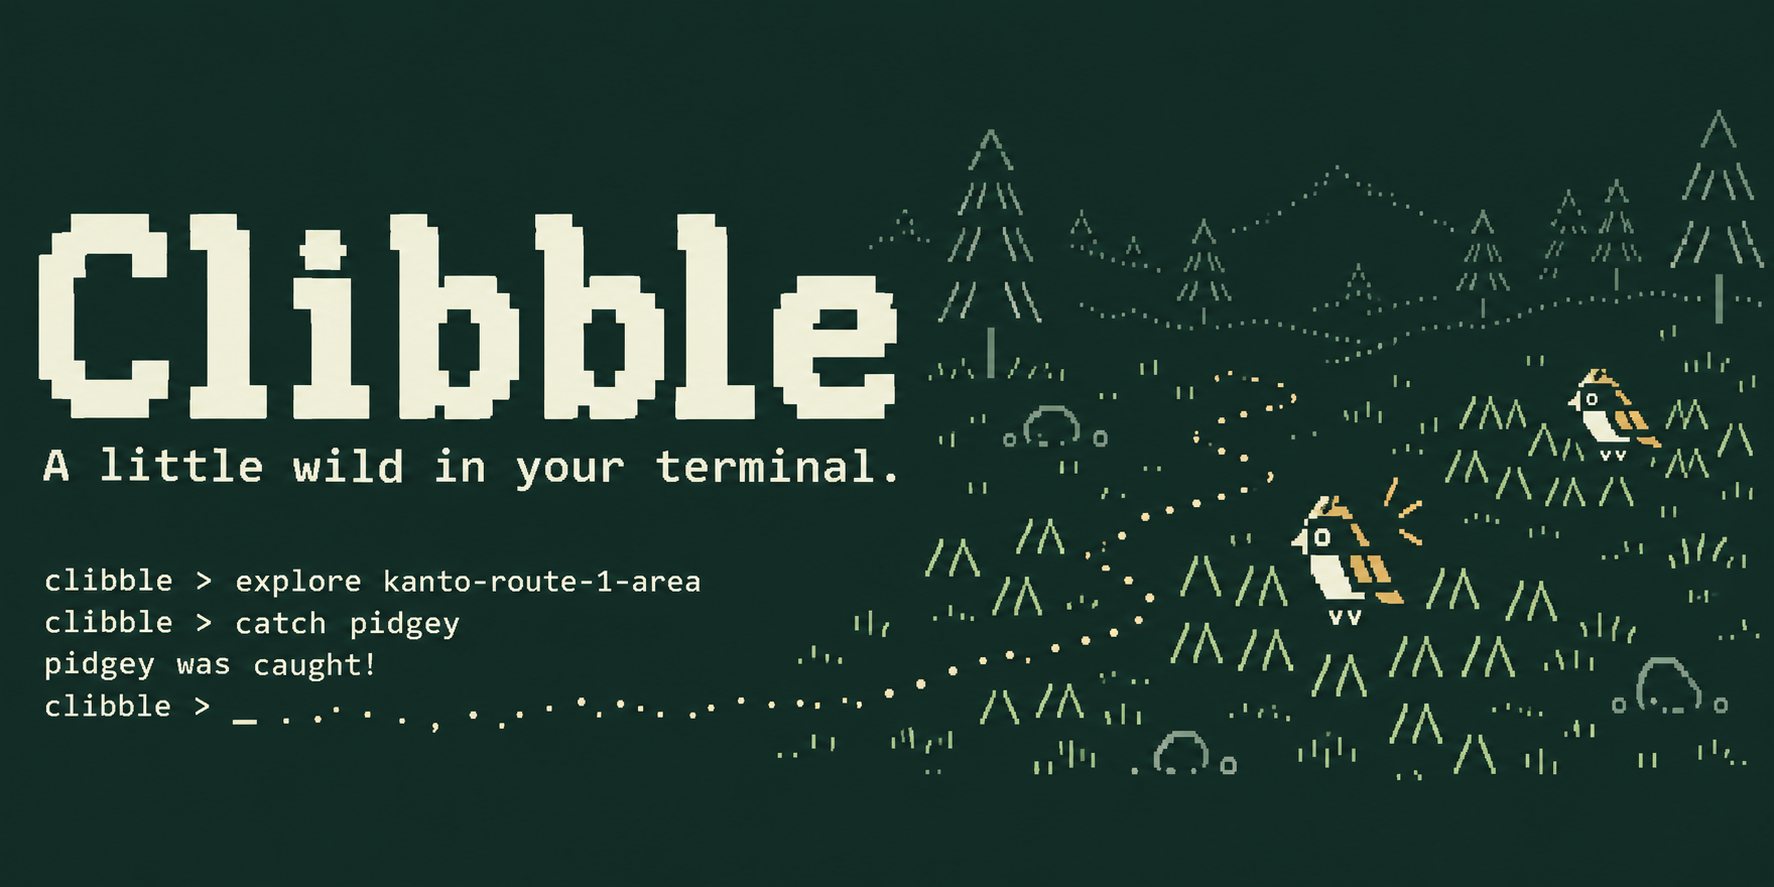
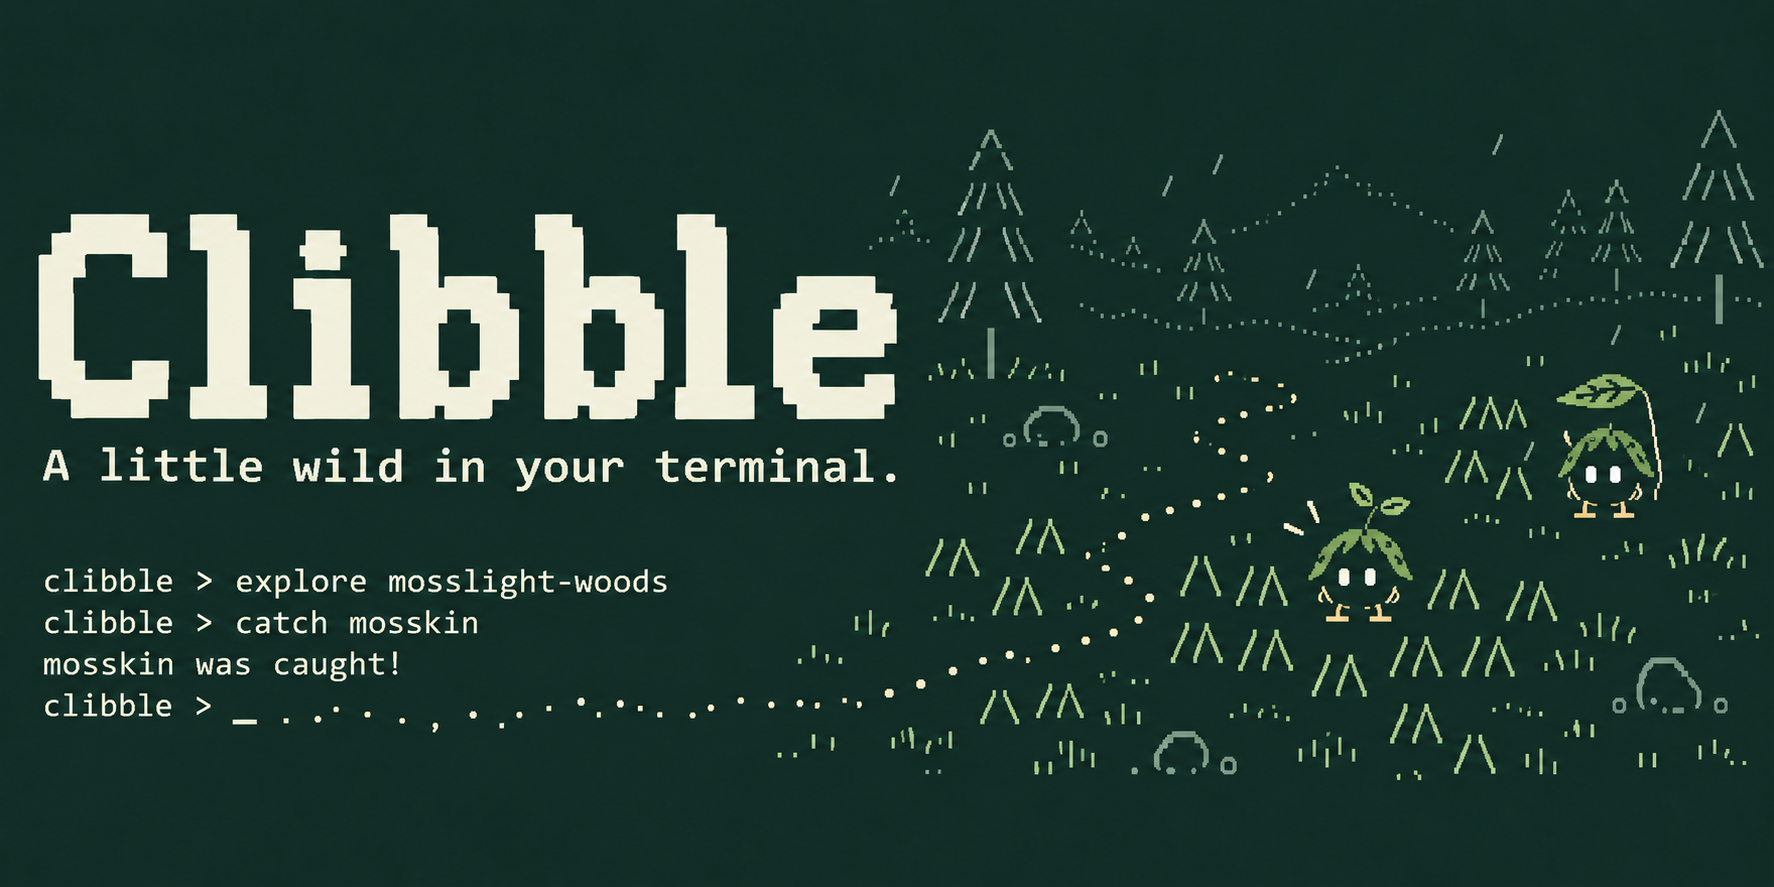
Present Clibble as an original offline forest RPG

diff --git a/docs/index.html b/docs/index.html
@@ -28,7 +28,7 @@
       </header>
       <main id="main" tabindex="-1">
         <div class="breadcrumbs"></div>
-        <article class="page-content"><div><h1>yaqyn.</h1><p><b>Backend systems, AI applications, and Linux tools built around real workflows.</b> Based in <b>6th of October City, Egypt</b>, the work spans HyperQuote’s business software, qvOS, and Go and Python projects developed through Boot.dev.</p><p><a href="/folio-static-site/projects/">Explore my work</a> <a href="/folio-static-site/contact/">Get in touch</a></p><p><img src="/folio-static-site/images/yaqyn-portrait.webp" alt="Black and white portrait of Abdulrahman M. Yaqyn"></p><h2>Career Projects</h2><ul><li><a href="https://github.com/yaqyn/HyperQuote">HyperQuote — Connected Business Operations</a> Connected business software for customers, sales, operations, dispatch, and drivers—from a material request to delivery.</li></ul><h2>Personal Projects</h2><ul><li><a href="https://github.com/yaqyn/qvOS">qvOS — Personal Linux Distribution</a> An ongoing Arch Linux distribution project built around a keyboard-first Hyprland desktop, native tools, installation, updates, and recovery.</li></ul><h2>Learning Journey Projects</h2><p>Projects developed through Boot.dev and extended through independent work. The focus is on how each system behaves, from authentication and shutdown to retrieval and tool boundaries.</p><ul><li><a href="https://github.com/yaqyn/readlane-feed-reader">Readlane — Feed Reader</a> RSS and Atom collection, PostgreSQL, and keyboard-driven reading.</li><li><a href="/folio-static-site/games/">Clibble — Pokémon CLI</a> Terminal exploration, PokéAPI, persistent catches, and offline records.</li><li><a href="https://github.com/yaqyn/threadline-social-api">Threadline — Social Publishing API</a> Go and PostgreSQL APIs, authentication, renewable sessions, and membership webhooks.</li><li><a href="https://github.com/yaqyn/portlight-http-server">Portlight — HTTP Server</a> Containerized Go service with health probes, structured logs, and graceful shutdown.</li><li><a href="https://github.com/yaqyn/workbench-ai-agent">Workbench — AI Coding Agent</a> Workspace-scoped coding agent with read-only tools and explicit execution limits.</li><li><a href="https://github.com/yaqyn/cinesearch-rag-engine">CineSearch — Movie RAG Engine</a> BM25, semantic retrieval, hybrid ranking, and grounded generation.</li><li><a href="https://github.com/yaqyn/sitelens-web-crawler">SiteLens — Web Crawler</a> HTTP, asynchronous crawling, and structured reports.</li><li><a href="/folio-static-site/games/">Orbit — Asteroids Game</a> Game logic and object-oriented programming.</li><li><a href="https://github.com/yaqyn/textscope-text-analyzer">TextScope — Text Analyzer</a> Text processing, vocabulary analysis, and exports.</li><li><a href="https://github.com/yaqyn/folio-static-site">Folio — Personal Site &amp; Generator</a> Markdown parsing, HTML generation, and static-site publishing.</li></ul><h2>From the workbench</h2><ul><li><a href="/folio-static-site/notes/static-sites/">Building a site from first principles</a> Markdown, small Python objects, and the path from a text file to this page.</li><li><a href="/folio-static-site/notes/agents/">What a coding agent needs beyond a model</a> Tool boundaries, clear errors, and verification that means something.</li></ul><h2>From the workflow to the system</h2><p>An accounting background shapes my attention to records, responsibilities, and handoffs. The starting point is understanding the work, then shaping the data and interfaces around it.</p><p><a href="/folio-static-site/about/">More about my background and approach</a> or <a href="/folio-static-site/projects/">browse all projects</a>.</p></div></article>
+        <article class="page-content"><div><h1>yaqyn.</h1><p><b>Backend systems, AI applications, and Linux tools built around real workflows.</b> Based in <b>6th of October City, Egypt</b>, the work spans HyperQuote’s business software, qvOS, and Go and Python projects developed through Boot.dev.</p><p><a href="/folio-static-site/projects/">Explore my work</a> <a href="/folio-static-site/contact/">Get in touch</a></p><p><img src="/folio-static-site/images/yaqyn-portrait.webp" alt="Black and white portrait of Abdulrahman M. Yaqyn"></p><h2>Career Projects</h2><ul><li><a href="https://github.com/yaqyn/HyperQuote">HyperQuote — Connected Business Operations</a> Connected business software for customers, sales, operations, dispatch, and drivers—from a material request to delivery.</li></ul><h2>Personal Projects</h2><ul><li><a href="https://github.com/yaqyn/qvOS">qvOS — Personal Linux Distribution</a> An ongoing Arch Linux distribution project built around a keyboard-first Hyprland desktop, native tools, installation, updates, and recovery.</li></ul><h2>Learning Journey Projects</h2><p>Projects developed through Boot.dev and extended through independent work. The focus is on how each system behaves, from authentication and shutdown to retrieval and tool boundaries.</p><ul><li><a href="https://github.com/yaqyn/readlane-feed-reader">Readlane — Feed Reader</a> RSS and Atom collection, PostgreSQL, and keyboard-driven reading.</li><li><a href="/folio-static-site/games/">Clibble — Terminal RPG</a> An offline forest adventure with original wildlings, catch seeds, and a saved field journal.</li><li><a href="https://github.com/yaqyn/threadline-social-api">Threadline — Social Publishing API</a> Go and PostgreSQL APIs, authentication, renewable sessions, and membership webhooks.</li><li><a href="https://github.com/yaqyn/portlight-http-server">Portlight — HTTP Server</a> Containerized Go service with health probes, structured logs, and graceful shutdown.</li><li><a href="https://github.com/yaqyn/workbench-ai-agent">Workbench — AI Coding Agent</a> Workspace-scoped coding agent with read-only tools and explicit execution limits.</li><li><a href="https://github.com/yaqyn/cinesearch-rag-engine">CineSearch — Movie RAG Engine</a> BM25, semantic retrieval, hybrid ranking, and grounded generation.</li><li><a href="https://github.com/yaqyn/sitelens-web-crawler">SiteLens — Web Crawler</a> HTTP, asynchronous crawling, and structured reports.</li><li><a href="/folio-static-site/games/">Orbit — Asteroids Game</a> Game logic and object-oriented programming.</li><li><a href="https://github.com/yaqyn/textscope-text-analyzer">TextScope — Text Analyzer</a> Text processing, vocabulary analysis, and exports.</li><li><a href="https://github.com/yaqyn/folio-static-site">Folio — Personal Site &amp; Generator</a> Markdown parsing, HTML generation, and static-site publishing.</li></ul><h2>From the workbench</h2><ul><li><a href="/folio-static-site/notes/static-sites/">Building a site from first principles</a> Markdown, small Python objects, and the path from a text file to this page.</li><li><a href="/folio-static-site/notes/agents/">What a coding agent needs beyond a model</a> Tool boundaries, clear errors, and verification that means something.</li></ul><h2>From the workflow to the system</h2><p>An accounting background shapes my attention to records, responsibilities, and handoffs. The starting point is understanding the work, then shaping the data and interfaces around it.</p><p><a href="/folio-static-site/about/">More about my background and approach</a> or <a href="/folio-static-site/projects/">browse all projects</a>.</p></div></article>
       </main>
       <footer class="site-footer">
         <a class="wordmark" href="/folio-static-site/">yaqyn<span>.</span></a>

diff --git a/docs/games/index.html b/docs/games/index.html
@@ -4,10 +4,10 @@
     <meta charset="utf-8">
     <meta name="viewport" content="width=device-width, initial-scale=1">
     <meta name="color-scheme" content="dark">
-    <meta name="description" content="Orbit, a Python Asteroids game, and Clibble, a Go terminal Pokémon adventure, by Abdulrahman M. Yaqyn.">
+    <meta name="description" content="Orbit, a Python Asteroids game, and Clibble, an original offline forest RPG in Go, by Abdulrahman M. Yaqyn.">
     <meta property="og:type" content="website">
     <meta property="og:title" content="Games | yaqyn">
-    <meta property="og:description" content="Orbit, a Python Asteroids game, and Clibble, a Go terminal Pokémon adventure, by Abdulrahman M. Yaqyn.">
+    <meta property="og:description" content="Orbit, a Python Asteroids game, and Clibble, an original offline forest RPG in Go, by Abdulrahman M. Yaqyn.">
     <meta property="og:url" content="https://yaqyn.github.io/folio-static-site/games/">
     <meta property="og:site_name" content="yaqyn">
     <meta property="og:image" content="https://yaqyn.github.io/folio-static-site/images/yaqyn-portrait.webp">
@@ -28,7 +28,7 @@
       </header>
       <main id="main" tabindex="-1">
         <div class="breadcrumbs"><a href="/folio-static-site/">yaqyn.</a><span aria-hidden="true"> / </span>Games</div>
-        <article class="page-content"><div><h1>Games</h1><p>Pilot a ship through incoming asteroids or follow a trail to your next Pokémon catch. These games began as Boot.dev projects and grew through independent work.</p><h2>Orbit — Asteroids Game</h2><p><img src="/folio-static-site/images/projects/orbit-cover.webp" alt="Orbit — Asteroids Game" width="1915" height="821" loading="lazy" decoding="async"></p><p>A Pygame arcade game. Pilot a wireframe ship, split incoming rocks, and survive with three lives. It includes pause and restart flows, a saved best score, and reduced-motion options.</p><p><a href="https://github.com/yaqyn/orbit-asteroids-game">Explore Orbit on GitHub</a></p><h2>Clibble — Pokémon CLI</h2><p><img src="/folio-static-site/images/projects/clibble-cover.webp" alt="Clibble — Pokémon CLI" width="1774" height="887" loading="lazy" decoding="async"></p><p>An arrow-driven Pokémon adventure built in Go. Explore locations through PokéAPI, attempt catches, and save a collection locally. Saved records work offline, commands support scripts, and an optional read-only web companion lets you search catches by name or type. New exploration requires internet access.</p><p><a href="https://github.com/yaqyn/clibble-pokemon-cli">Explore Clibble on GitHub</a></p><p><a href="/folio-static-site/projects/">Explore the other projects</a>.</p></div></article>
+        <article class="page-content"><div><h1>Games</h1><p>Pilot a ship through incoming asteroids or step into a rainy forest and meet its wildlings. These games began as Boot.dev projects and grew through independent work.</p><h2>Orbit — Asteroids Game</h2><p><img src="/folio-static-site/images/projects/orbit-cover.webp" alt="Orbit — Asteroids Game" width="1915" height="821" loading="lazy" decoding="async"></p><p>A Pygame arcade game. Pilot a wireframe ship, split incoming rocks, and survive with three lives. It includes pause and restart flows, a saved best score, and reduced-motion options.</p><p><a href="https://github.com/yaqyn/orbit-asteroids-game">Explore Orbit on GitHub</a></p><h2>Clibble — Terminal RPG</h2><p><img src="/folio-static-site/images/projects/clibble-cover.webp" alt="Clibble — Terminal RPG" width="1774" height="887" loading="lazy" decoding="async"></p><p>A little wilderness RPG that opens inside your terminal. Choose with arrows and Enter from a clearing framed by green pixel trees, soft rain, and drifting motes. Travel six trails, meet ten original wildlings, and offer catch seeds to add their stories to your field journal. The world works entirely offline.</p><p>Catches and escapes consume saved supplies and tries: twelve seeds, replenishing over time, and three tries per wildling in a thirty-minute window. Restarting or changing trails keeps those limits. Motion can be switched off, and scriptable commands remain available alongside the RPG screen. An optional read-only web companion lets you search your journal by name or habitat. These are local single-player rules; the save file and device clock are trusted.</p><p><a href="https://github.com/yaqyn/clibble-pokemon-cli">Explore Clibble on GitHub</a></p><p><a href="/folio-static-site/projects/">Explore the other projects</a>.</p></div></article>
       </main>
       <footer class="site-footer">
         <a class="wordmark" href="/folio-static-site/">yaqyn<span>.</span></a>

diff --git a/src/test_site_reliability.py b/src/test_site_reliability.py
@@ -129,7 +129,7 @@ class TestSiteReliability(unittest.TestCase):
             games = (output / "games/index.html").read_text()
             self.assertIn('aria-current="page">Games', games)
             self.assertIn("Orbit — Asteroids Game", games)
-            self.assertIn("Clibble — Pokémon CLI", games)
+            self.assertIn("Clibble — Terminal RPG", games)
             self.assertTrue((output / ".nojekyll").exists())
             self.assertIn(
                 'aria-current="page">Projects',

diff --git a/content/games/index.md b/content/games/index.md
@@ -1,9 +1,9 @@
 ---
-description: Orbit, a Python Asteroids game, and Clibble, a Go terminal Pokémon adventure, by Abdulrahman M. Yaqyn.
+description: Orbit, a Python Asteroids game, and Clibble, an original offline forest RPG in Go, by Abdulrahman M. Yaqyn.
 ---
 # Games
 
-Pilot a ship through incoming asteroids or follow a trail to your next Pokémon catch. These games began as Boot.dev projects and grew through independent work.
+Pilot a ship through incoming asteroids or step into a rainy forest and meet its wildlings. These games began as Boot.dev projects and grew through independent work.
 
 ## Orbit — Asteroids Game
 
@@ -13,11 +13,13 @@ A Pygame arcade game. Pilot a wireframe ship, split incoming rocks, and survive 
 
 [Explore Orbit on GitHub](https://github.com/yaqyn/orbit-asteroids-game)
 
-## Clibble — Pokémon CLI
+## Clibble — Terminal RPG
 
-![Clibble — Pokémon CLI](/images/projects/clibble-cover.webp)
+![Clibble — Terminal RPG](/images/projects/clibble-cover.webp)
 
-An arrow-driven Pokémon adventure built in Go. Explore locations through PokéAPI, attempt catches, and save a collection locally. Saved records work offline, commands support scripts, and an optional read-only web companion lets you search catches by name or type. New exploration requires internet access.
+A little wilderness RPG that opens inside your terminal. Choose with arrows and Enter from a clearing framed by green pixel trees, soft rain, and drifting motes. Travel six trails, meet ten original wildlings, and offer catch seeds to add their stories to your field journal. The world works entirely offline.
+
+Catches and escapes consume saved supplies and tries: twelve seeds, replenishing over time, and three tries per wildling in a thirty-minute window. Restarting or changing trails keeps those limits. Motion can be switched off, and scriptable commands remain available alongside the RPG screen. An optional read-only web companion lets you search your journal by name or habitat. These are local single-player rules; the save file and device clock are trusted.
 
 [Explore Clibble on GitHub](https://github.com/yaqyn/clibble-pokemon-cli)
 

diff --git a/content/index.md b/content/index.md
@@ -23,7 +23,7 @@ description: Abdulrahman M. Yaqyn — backend systems, AI applications, and Linu
 Projects developed through Boot.dev and extended through independent work. The focus is on how each system behaves, from authentication and shutdown to retrieval and tool boundaries.
 
 - [Readlane — Feed Reader](https://github.com/yaqyn/readlane-feed-reader) RSS and Atom collection, PostgreSQL, and keyboard-driven reading.
-- [Clibble — Pokémon CLI](/games/) Terminal exploration, PokéAPI, persistent catches, and offline records.
+- [Clibble — Terminal RPG](/games/) An offline forest adventure with original wildlings, catch seeds, and a saved field journal.
 - [Threadline — Social Publishing API](https://github.com/yaqyn/threadline-social-api) Go and PostgreSQL APIs, authentication, renewable sessions, and membership webhooks.
 - [Portlight — HTTP Server](https://github.com/yaqyn/portlight-http-server) Containerized Go service with health probes, structured logs, and graceful shutdown.
 - [Workbench — AI Coding Agent](https://github.com/yaqyn/workbench-ai-agent) Workspace-scoped coding agent with read-only tools and explicit execution limits.

diff --git a/README.md b/README.md
@@ -94,7 +94,7 @@ Ten Go and Python projects exploring APIs, services, retrieval, tools, games, an
 | Project | Purpose |
 | --- | --- |
 | [Readlane](https://github.com/yaqyn/readlane-feed-reader) | Terminal-first RSS and Atom Reader |
-| [Clibble](https://github.com/yaqyn/clibble-pokemon-cli) | Terminal Pokémon Adventure |
+| [Clibble](https://github.com/yaqyn/clibble-pokemon-cli) | Original Offline Terminal RPG |
 | [Threadline](https://github.com/yaqyn/threadline-social-api) | Social Publishing API |
 | [Portlight](https://github.com/yaqyn/portlight-http-server) | Containerized HTTP Server |
 | [Workbench](https://github.com/yaqyn/workbench-ai-agent) | AI Coding Agent |
